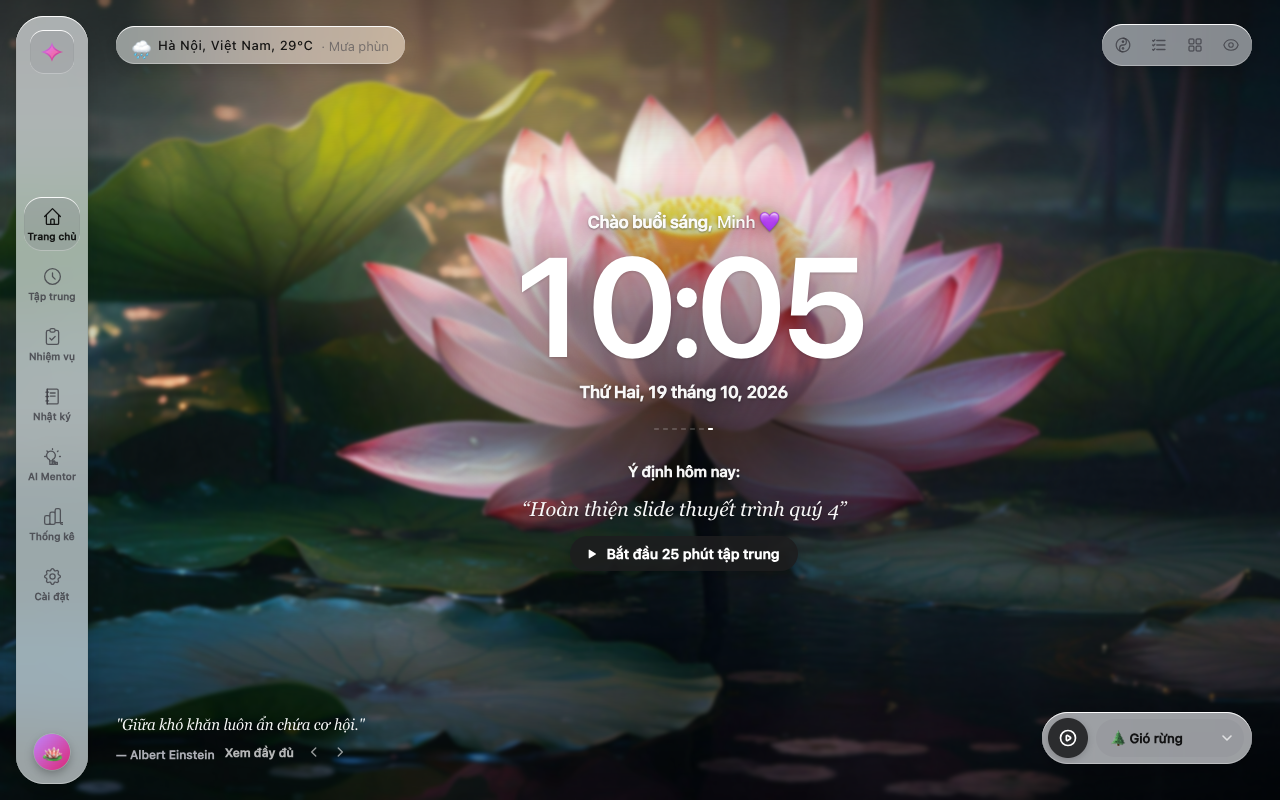
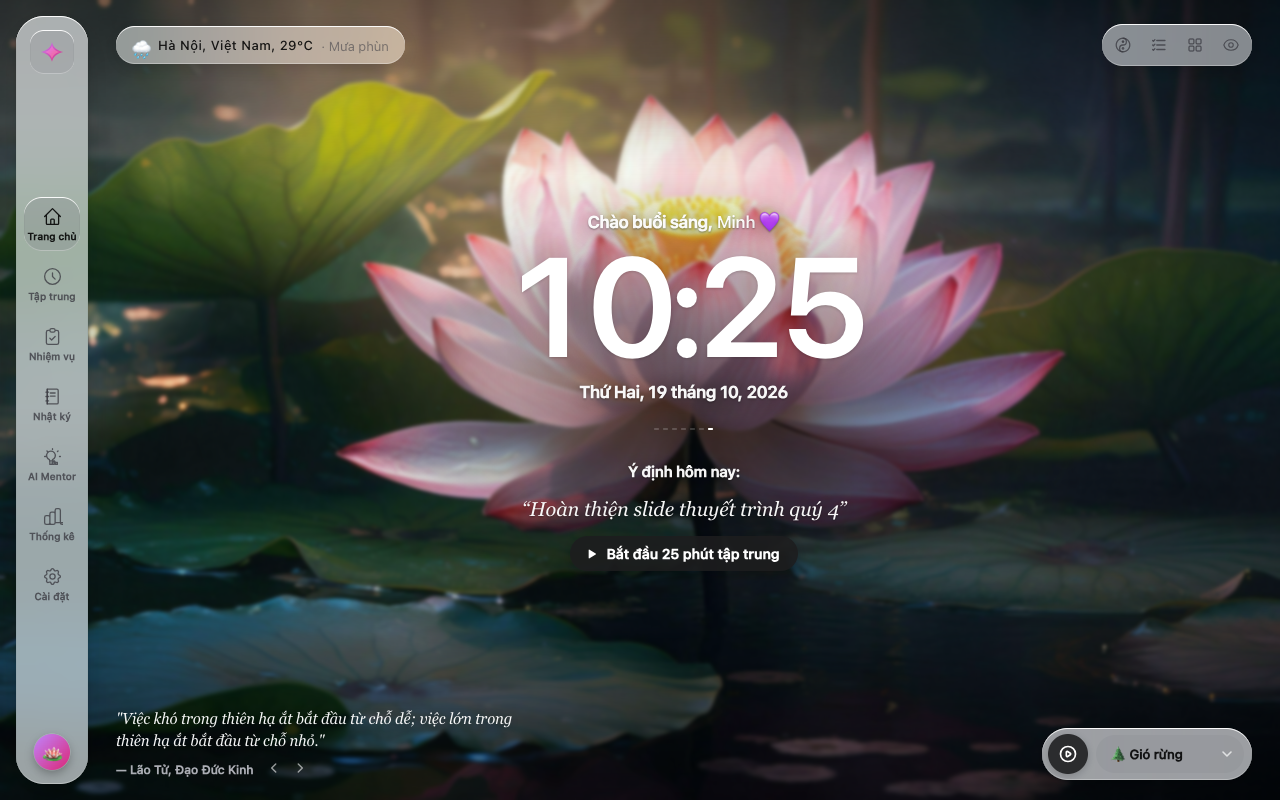
Focus: the intention is one written line, with suggestions
- The boxed pink field over the brightest part of the lotus is gone.
  Typing and the set focus share one serif italic line; a hairline
  underline shows only while typing. The "Tiêu điểm" label goes (the
  input keeps it as its accessible name).
- While the line is open, this morning's intention (☀) and up to three
  open tasks appear as chips. A task labels the session without
  replacing the journal intention; ☀ goes back to it.
- A soft radial shade behind the line keeps it readable on dark
  wallpapers; light wallpapers get dark text and no shade.
- While the timer runs the focus line steps back to 70% (full on hover).
- Store screenshots retaken.

Changed region(s): [[0.8125, 0.875, 1.0, 1.0], [0.0938, 0.875, 0.4062, 0.9688], [0.5312, 0.3438, 0.625, 0.4688]]

diff --git a/liquid-glass.css b/liquid-glass.css
@@ -1529,42 +1529,83 @@ html[data-wallpaper]:not([data-wallpaper="lotus"]):not([data-custom-bg]) #partic
   overflow-y: auto;
 }
 
-/* Intention */
-.focus-intention { display: flex; flex-direction: column; align-items: center; gap: 6px; max-width: 680px; text-align: center; }
-.focus-intention-label { font-size: 13px; font-weight: 600; color: var(--text-dim); }
+/* Intention: one handwritten-looking line, no box. Typing and the set label share a face,
+   so choosing a focus feels like writing it down. */
+.focus-intention { position: relative; display: flex; flex-direction: column; align-items: center; gap: 10px; max-width: 680px; text-align: center; }
+/* A soft shade behind the centre keeps the line readable on any wallpaper */
+.focus-intention::before {
+  content: "";
+  position: absolute;
+  inset: -28px -80px;
+  z-index: -1;
+  pointer-events: none;
+  background: radial-gradient(closest-side, rgba(0, 0, 0, 0.32), transparent);
+}
+.focus-intention-display,
+.focus-intention-input {
+  font-family: var(--font-serif);
+  font-style: italic;
+  font-size: clamp(20px, 2.4vw, 26px);
+  line-height: 1.3;
+  color: var(--text);
+  text-shadow: 0 1px 2px rgba(0, 0, 0, 0.35), 0 2px 18px rgba(0, 0, 0, 0.45);
+}
 .focus-intention-display {
   border: none;
   background: none;
   padding: 2px 8px;
   border-radius: 10px;
   cursor: text;
-  font-family: var(--font-serif);
-  font-style: italic;
-  font-size: clamp(20px, 2.4vw, 26px);
-  line-height: 1.3;
-  color: var(--text);
   text-wrap: balance;
-  text-shadow: 0 1px 14px rgba(0, 0, 0, 0.3);
-  transition: background 0.2s ease;
+  transition: background 0.2s ease, opacity 0.6s ease;
 }
 .focus-intention-display:hover { background: var(--wash-1); }
 .focus-intention-input {
-  width: min(460px, 80vw);
-  height: 44px;
-  padding: 0 20px;
+  width: min(520px, 80vw);
+  padding: 2px 4px 6px;
   border: none;
-  border-radius: 999px;
-  background: var(--field-bg);
-  backdrop-filter: var(--lg-blur);
-  -webkit-backdrop-filter: var(--lg-blur);
-  box-shadow: var(--lg-edge);
-  color: var(--text);
-  font-size: 17px;
+  border-bottom: 1px solid transparent;
+  border-radius: 0;
+  background: none;
   text-align: center;
   outline: none;
+  caret-color: var(--accent);
+  transition: border-color 0.3s ease, opacity 0.6s ease;
 }
-.focus-intention-input::placeholder { color: var(--text-muted); }
-.focus-intention-input:focus { background: var(--field-bg-focus); }
+.focus-intention-input:focus, .focus-intention-input:focus-visible { outline: none; box-shadow: none; }
+.focus-intention-input::placeholder { color: color-mix(in srgb, var(--text) 78%, transparent); }
+.focus-intention-input:focus { border-bottom-color: color-mix(in srgb, var(--text) 40%, transparent); }
+.focus-intention-input:focus::placeholder { color: color-mix(in srgb, var(--text) 50%, transparent); }
+/* Light wallpapers already carry dark text: no shade, no glow */
+html[data-wp-tone="light"] .focus-intention::before { display: none; }
+html[data-wp-tone="light"] :is(.focus-intention-display, .focus-intention-input) { text-shadow: none; }
+
+/* Suggestions: this morning's intention and open tasks, one tap away */
+.focus-suggest { display: flex; flex-wrap: wrap; justify-content: center; gap: 6px; max-width: 620px; }
+.focus-suggest[hidden] { display: none; }
+.focus-suggest button {
+  max-width: 260px;
+  padding: 5px 12px;
+  border: none;
+  border-radius: 999px;
+  background: color-mix(in srgb, var(--text) 14%, transparent);
+  backdrop-filter: var(--lg-blur);
+  -webkit-backdrop-filter: var(--lg-blur);
+  color: var(--text);
+  font: 500 13px var(--font);
+  white-space: nowrap;
+  overflow: hidden;
+  text-overflow: ellipsis;
+  cursor: pointer;
+  animation: focus-suggest-in 0.35s var(--ease-spring) both;
+  transition: background 0.2s ease;
+}
+.focus-suggest button:nth-child(2) { animation-delay: 40ms; }
+.focus-suggest button:nth-child(3) { animation-delay: 80ms; }
+.focus-suggest button:nth-child(4) { animation-delay: 120ms; }
+.focus-suggest button:hover, .focus-suggest button:focus-visible { background: color-mix(in srgb, var(--text) 26%, transparent); outline: none; }
+@keyframes focus-suggest-in { from { opacity: 0; transform: translateY(-4px); } }
+@media (prefers-reduced-motion: reduce) { .focus-suggest button { animation: none; } }
 
 /* Ring */
 .large-timer {
@@ -1740,9 +1781,12 @@ html[data-wp-tone="light"] .focus-round-btn.secondary { --btn-bg: rgba(118, 118,
 }
 
 /* While a session runs: chrome recedes, timer stays */
-#view-focus :is(.focus-topbar, .focus-footer, .focus-sessions, .focus-intention-label) { transition: opacity 0.6s ease; }
-html.timer-is-running #view-focus :is(.focus-topbar, .focus-footer, .focus-intention-label) { opacity: 0.28; }
+#view-focus :is(.focus-topbar, .focus-footer, .focus-sessions) { transition: opacity 0.6s ease; }
+html.timer-is-running #view-focus :is(.focus-topbar, .focus-footer) { opacity: 0.28; }
 html.timer-is-running #view-focus .focus-intention-input:not(:focus) { opacity: 0.35; }
+/* the focus line steps back a little while the timer runs, and comes forward on hover */
+html.timer-is-running #view-focus .focus-intention-display { opacity: 0.7; }
+html.timer-is-running #view-focus .focus-intention-display:hover { opacity: 1; }
 html.timer-is-running #view-focus :is(.focus-topbar, .focus-footer):hover { opacity: 1; }
 .app-layout:has(#view-focus.active) .sidebar-left { transition: opacity 0.6s ease, transform 0.5s var(--ease-spring), margin 0.5s var(--ease-spring), width 0.5s var(--ease-spring); }
 html.timer-is-running[data-timer-mode="pomodoro"] .app-layout:has(#view-focus.active) .sidebar-left { opacity: 0.25; }

diff --git a/script.js b/script.js
@@ -5023,8 +5023,35 @@ function renderFocusIntention() {
       input.hidden = false;
       input.value = '';
     }
+    renderFocusSuggestions(label, entry && entry.entry);
    });
   });
+}
+
+// While the line is open: this morning's intention and up to three open tasks, one tap away
+function renderFocusSuggestions(current, intention) {
+  const box = document.getElementById('focusSuggest');
+  const input = document.getElementById('focusIntentionInput');
+  if (!box || !input) return;
+  const seen = new Set([current]);
+  const items = [];
+  if (intention && !seen.has(intention)) { items.push({ text: intention, intention: true }); seen.add(intention); }
+  (typeof tasks !== 'undefined' ? tasks : []).filter(t => !t.done && t.text && !seen.has(t.text)).slice(0, 3)
+    .forEach(t => { items.push({ text: t.text }); seen.add(t.text); });
+  box.replaceChildren(...items.map(item => {
+    const b = document.createElement('button');
+    b.type = 'button';
+    b.textContent = item.intention ? `☀ ${item.text}` : item.text;
+    b.title = item.intention ? 'Ý định sáng nay' : 'Việc chưa xong';
+    b.addEventListener('pointerdown', e => e.preventDefault()); // keep the input's focus
+    b.addEventListener('click', () => {
+      // The intention is today's journal entry; a task labels the session without replacing it
+      if (item.intention) chrome.storage.local.remove('focusTask', renderFocusIntention);
+      else chrome.storage.local.set({ focusTask: { text: item.text, date: getDateStr(new Date()) } }, renderFocusIntention);
+    });
+    return b;
+  }));
+  box.hidden = input.hidden || !items.length;
 }
 
 (function initFocusIntention() {
@@ -5032,11 +5059,16 @@ function renderFocusIntention() {
   const input = document.getElementById('focusIntentionInput');
   if (!display || !input) return;
   display.addEventListener('click', () => {
-    input.value = display.textContent;
+    const current = display.textContent;
+    input.value = current;
     display.hidden = true;
     input.hidden = false;
     input.focus();
     input.select();
+    chrome.storage.sync.get('journal', ({ journal }) => {
+      const entry = (journal || []).find(e => e.date === getDateStr(new Date()));
+      renderFocusSuggestions(current, entry && entry.entry);
+    });
   });
   input.addEventListener('keydown', (e) => {
     if (e.key === 'Enter' && input.value.trim()) {
@@ -5047,7 +5079,10 @@ function renderFocusIntention() {
       renderFocusIntention();
     }
   });
-  input.addEventListener('blur', () => setTimeout(renderFocusIntention, 150));
+  input.addEventListener('blur', () => setTimeout(() => {
+    // tabbing onto a suggestion keeps the line open
+    if (!document.getElementById('focusSuggest')?.contains(document.activeElement)) renderFocusIntention();
+  }, 150));
 })();
 
 // ---- Ambient sound pills: drive the existing dock player so both stay in sync ----

diff --git a/index.html b/index.html
@@ -427,9 +427,9 @@
 
           <section class="focus-stage">
             <div class="focus-intention">
-              <span class="focus-intention-label">Tiêu điểm</span>
-              <button type="button" class="focus-intention-display" id="focusIntentionDisplay" title="Bấm để sửa"></button>
-              <input type="text" class="focus-intention-input" id="focusIntentionInput" placeholder="Bạn sẽ tập trung vào điều gì?" autocomplete="off" hidden>
+              <button type="button" class="focus-intention-display" id="focusIntentionDisplay" title="Bấm để đổi tiêu điểm"></button>
+              <input type="text" class="focus-intention-input" id="focusIntentionInput" placeholder="Hôm nay mình tập trung vào…" aria-label="Tiêu điểm của phiên này" autocomplete="off" hidden>
+              <div class="focus-suggest" id="focusSuggest" aria-label="Gợi ý tiêu điểm" hidden></div>
             </div>
 
             <div class="timer-circle-wrapper large-timer">
